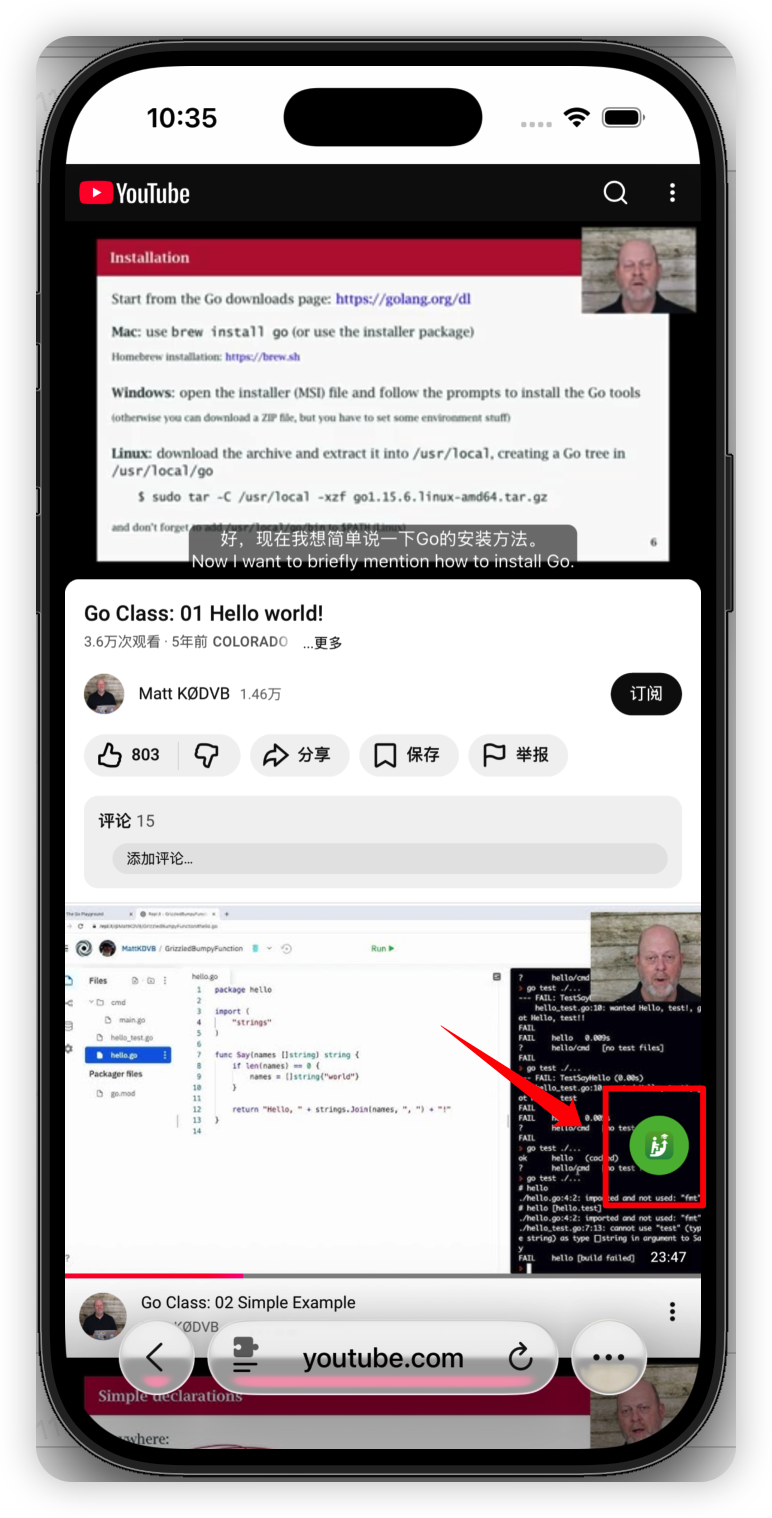
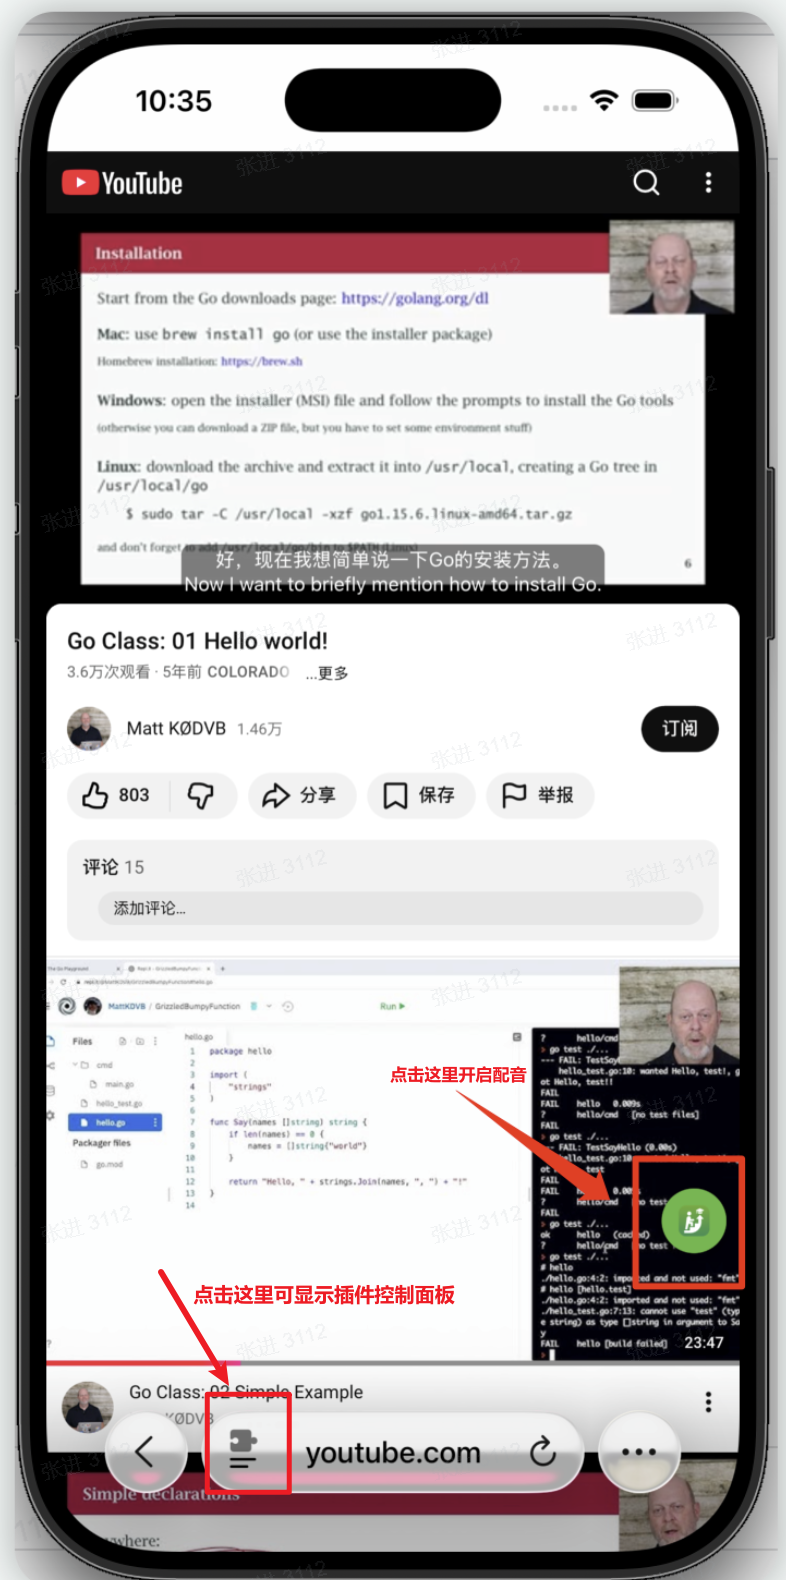
feat: 优化Ios插件使用指南

diff --git a/docs/installation.md b/docs/installation.md
@@ -198,6 +198,17 @@ Kiwi Browser 支持直接加载 `.zip` 压缩包，无需解压！
 
 #### 1. 安装 艾维果 应用
 
+**方式一：通过 TestFlight 安装（推荐）**
+
+TestFlight 版本可以体验最新功能和修复：
+
+1. 打开 iPhone 上的 **App Store**
+2. 搜索并安装 **TestFlight** 应用（如果尚未安装）
+3. 打开以下链接，然后点击 **在TestFlight中查看** 加入测试：[https://testflight.apple.com/join/VqYRgKgQ](https://testflight.apple.com/join/VqYRgKgQ)
+<img src="/img/plugin-guide/ios-testflight.png" alt="TestFlight 安装" width="300" />
+
+**方式二：通过 App Store 安装**
+
 1. 打开 iPhone 上的 **App Store**
 2. 搜索 **"艾维果"**
 3. 点击 **"获取"** 并安装该应用
@@ -234,7 +245,7 @@ Kiwi Browser 支持直接加载 `.zip` 压缩包，无需解压！
 
    <img src="/img/plugin-guide/ios-safari-block-cookies.png" alt="关闭阻止所有Cookie" width="300" />
 
-7. **注意**在youtube页面，点击此图标为开启配音
+7. 插件功能概览
    <img src="/img/plugin-guide/ios-safari-youtube.png" alt="开启配音" width="300" />
 
 
